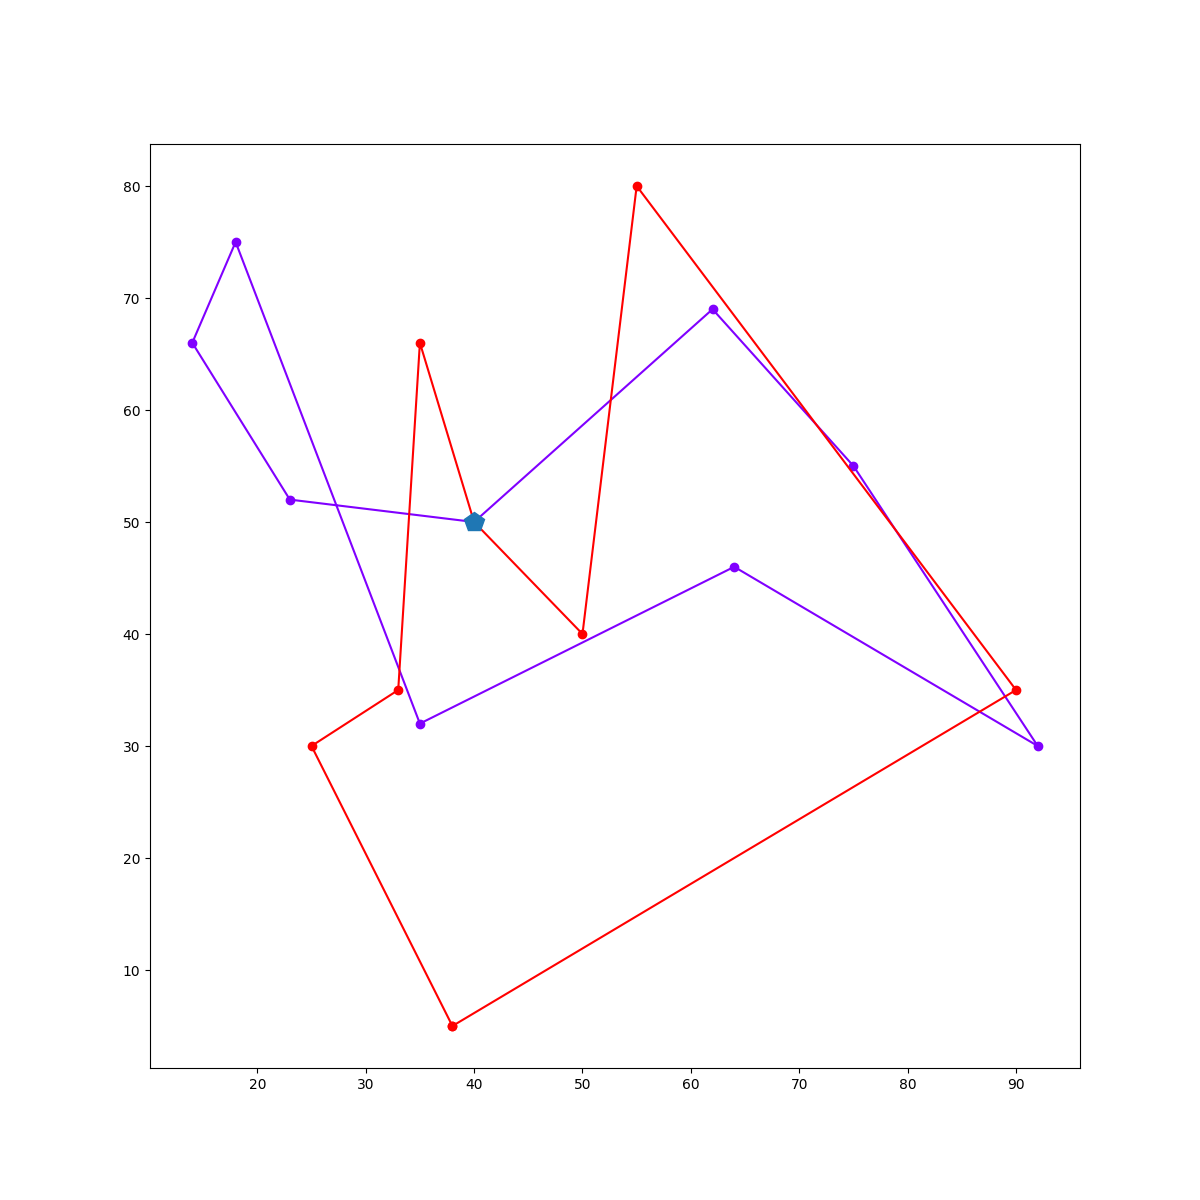
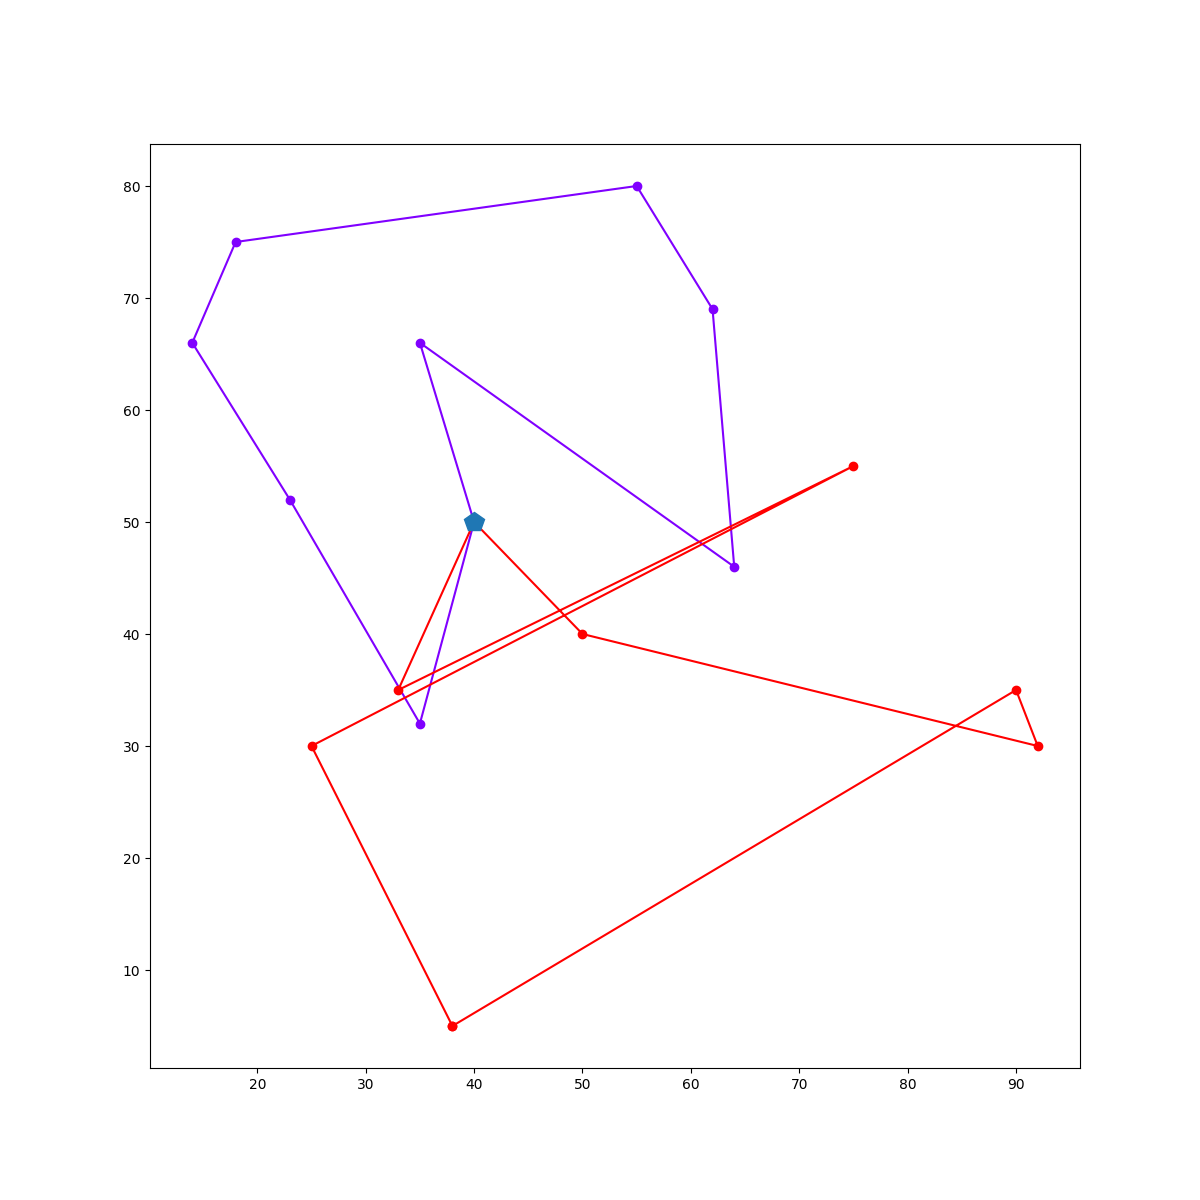
Test each opr improvement

diff --git a/experiment_singleOpr.py b/experiment_singleOpr.py
@@ -10,11 +10,11 @@ import sys
 instance_dir = "Instances"
 
 # Get a list of all files in the Instances directory
-instance_files = os.listdir(instance_dir)
+instance_files = os.listdir(instance_dir)[0:2]
 print(instance_files)
 
-destroyList = [1,2,3,4]
-repairList = [1,2,3]
+destroyList = [1]#,2,3,4]
+repairList = [1]#,2,3]
 tot_results = []
 
 bestCombinations = []
@@ -27,11 +27,24 @@ for file in instance_files:
     print(f"My instance is {inst}")
     
     results = []
+
+    # Run the problem
+    starttime = time.time() # get the start time
+    problem = Problem.PDPTW.readInstance(inst)
+    print(problem)
+    alns = ALNS(problem,4,3)
+    starttime = time.time()        
+    alns.execute()
+    endtime = time.time() # get the end time
+    cpuTime = round(endtime-starttime)
+    normCost = alns.bestSolution.distance
+    normCpuTime = cpuTime
+
     for destroyOpr in destroyList:
         for repairOpr in repairList:
             starttime = time.time() # get the start time
             Parameters.useBattery = False
-            Parameters.overrideOpr = True
+            Parameters.overrideOpr = False
             Parameters.destroy = destroyOpr
             Parameters.repair = repairOpr
 
@@ -67,7 +80,9 @@ for file in instance_files:
         "inst": instName,
         "best Combination": bestComb,
         "cost": bestComb_sol,
-        "cpuTime": bestCpuTime
+        "cpuTime": bestCpuTime,
+        "normCost": normCost,
+        "normCpuTime": normCpuTime
     }
     bestCombinations.append(bestCombination)
 

diff --git a/Main.py b/Main.py
@@ -6,17 +6,32 @@ Created on Mon Aug  1 14:34:48 2022
 """
 
 import Problem, Solution, Route
+from Parameters import Parameters
 from ALNS import ALNS
+import numpy as np
+import os
+import pandas as pd
 
-#lr112
 
-testI = "instances/c202C16.txt"
-problem = Problem.PDPTW.readInstance(testI)
-print(problem)
-nDestroyOps = 4
-nRepairOps = 3
-alns = ALNS(problem,nDestroyOps,nRepairOps)
-alns.execute()
-print(len(alns.bestSolution.routes))
-for i in alns.bestSolution.routes:
-    print(i.computeDistance())
+instance_dir = "Instances"
+# Get a list of all files in the Instances directory
+instance_files = os.listdir(instance_dir)
+
+results_log = []
+for testI in instance_files:
+    Parameters.useBattery = False
+    inst = os.path.join(instance_dir, testI)
+    problem = Problem.PDPTW.readInstance(inst)
+    print(problem)
+    nDestroyOps = 4
+    nRepairOps = 3
+    alns = ALNS(problem,nDestroyOps,nRepairOps)
+    alns.execute()
+    print(len(alns.bestSolution.routes))
+    results_log.append({
+        "inst": testI,
+        "cost": alns.bestSolution.distance,
+        "cpuTime": alns.cpuTime
+    })
+results_log_df = pd.DataFrame(results_log)
+results_log_df.to_csv("bestSolutionOfEachInstance.csv")

diff --git a/ALNS.py b/ALNS.py
@@ -103,8 +103,8 @@ class ALNS:
             costcu.append((i,self.bestSolution.distance))
             self.updateWeights(state, destroyOpNr, repairOpNr)
         endtime = time.time() # get the end time
-        cpuTime = round(endtime-starttime)
-        print("Terminated. Final distance: "+str(self.bestSolution.distance)+", cpuTime: "+str(cpuTime)+" seconds")
+        self.cpuTime = round(endtime-starttime)
+        print("Terminated. Final distance: "+str(self.bestSolution.distance)+", cpuTime: "+str(self.cpuTime)+" seconds")
         self.plot_routes()
         
         # self.drawGraph(cost)
